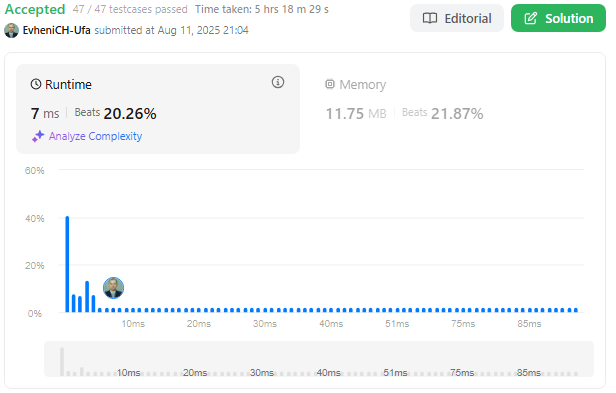
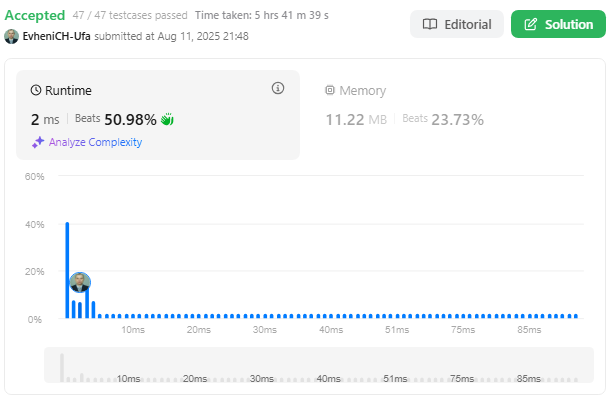
Add files via upload

diff --git a/224_BasicCalculator/main.cpp b/224_BasicCalculator/main.cpp
@@ -6,7 +6,7 @@ using namespace std;
 
 class Solution {
 public:
-    int calculate(string s) {
+    int calculate(string& s) {
         auto res = CalcRec("("+ s + ")",0);
         return res.res;
     }
